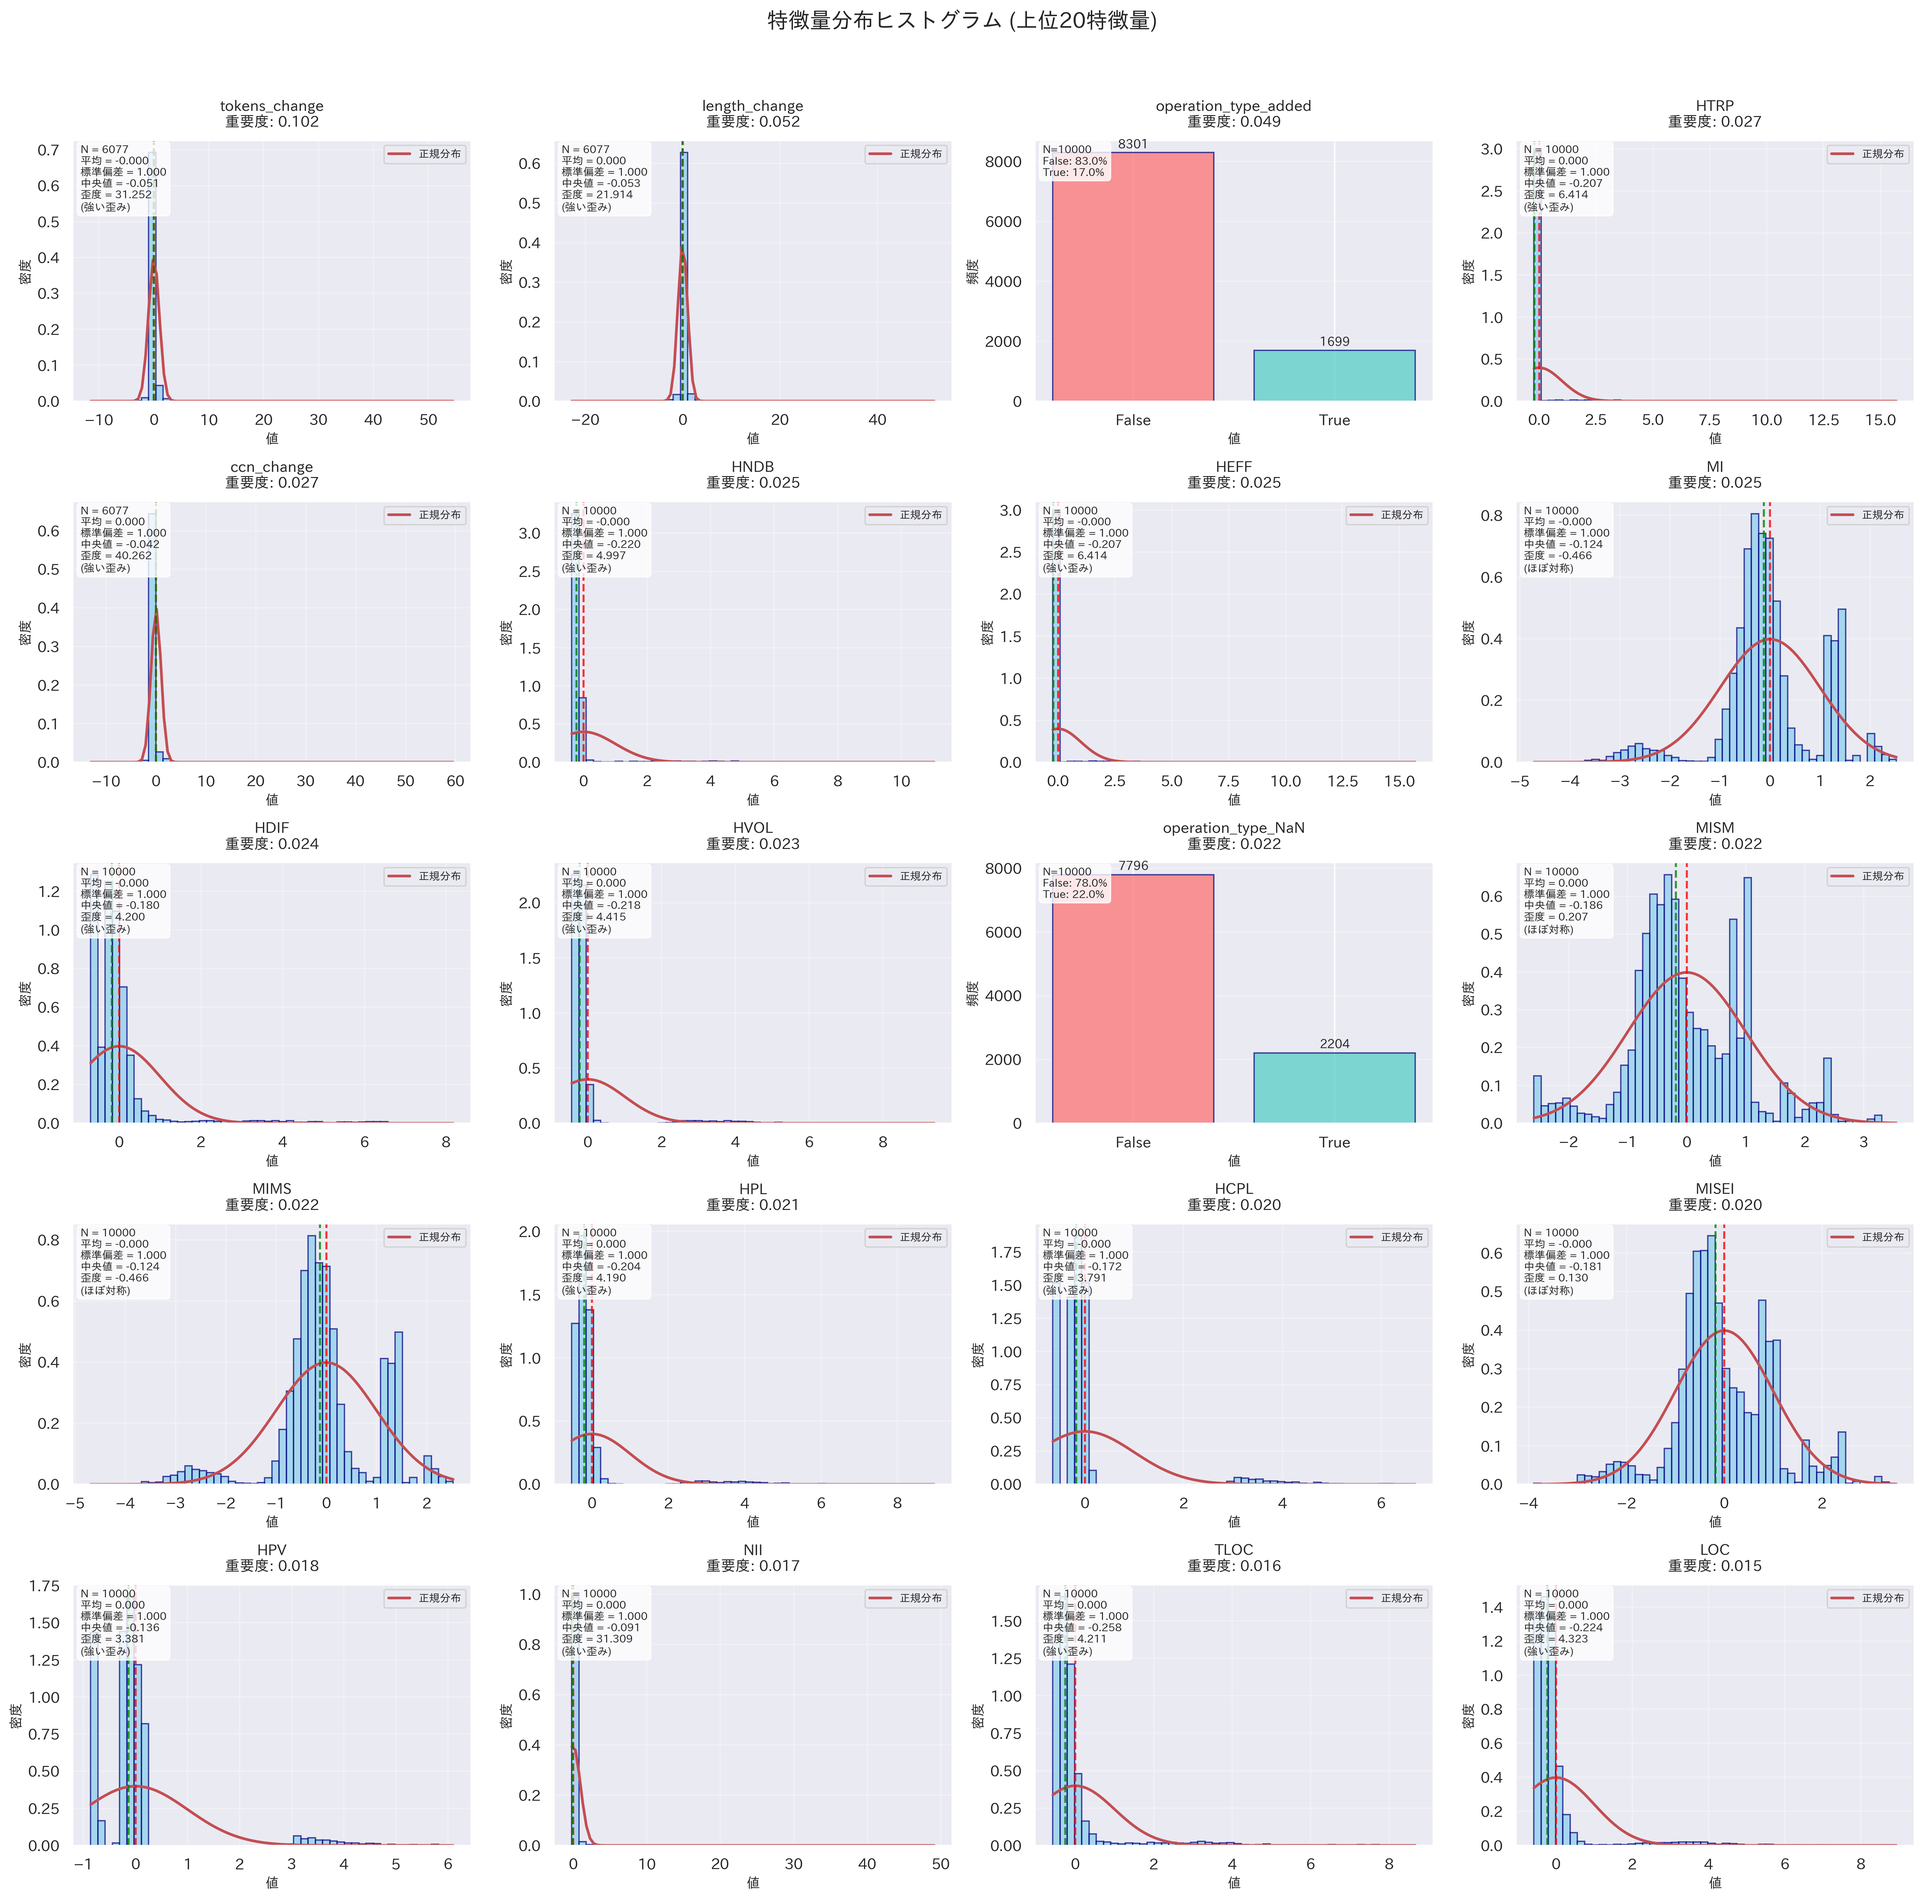
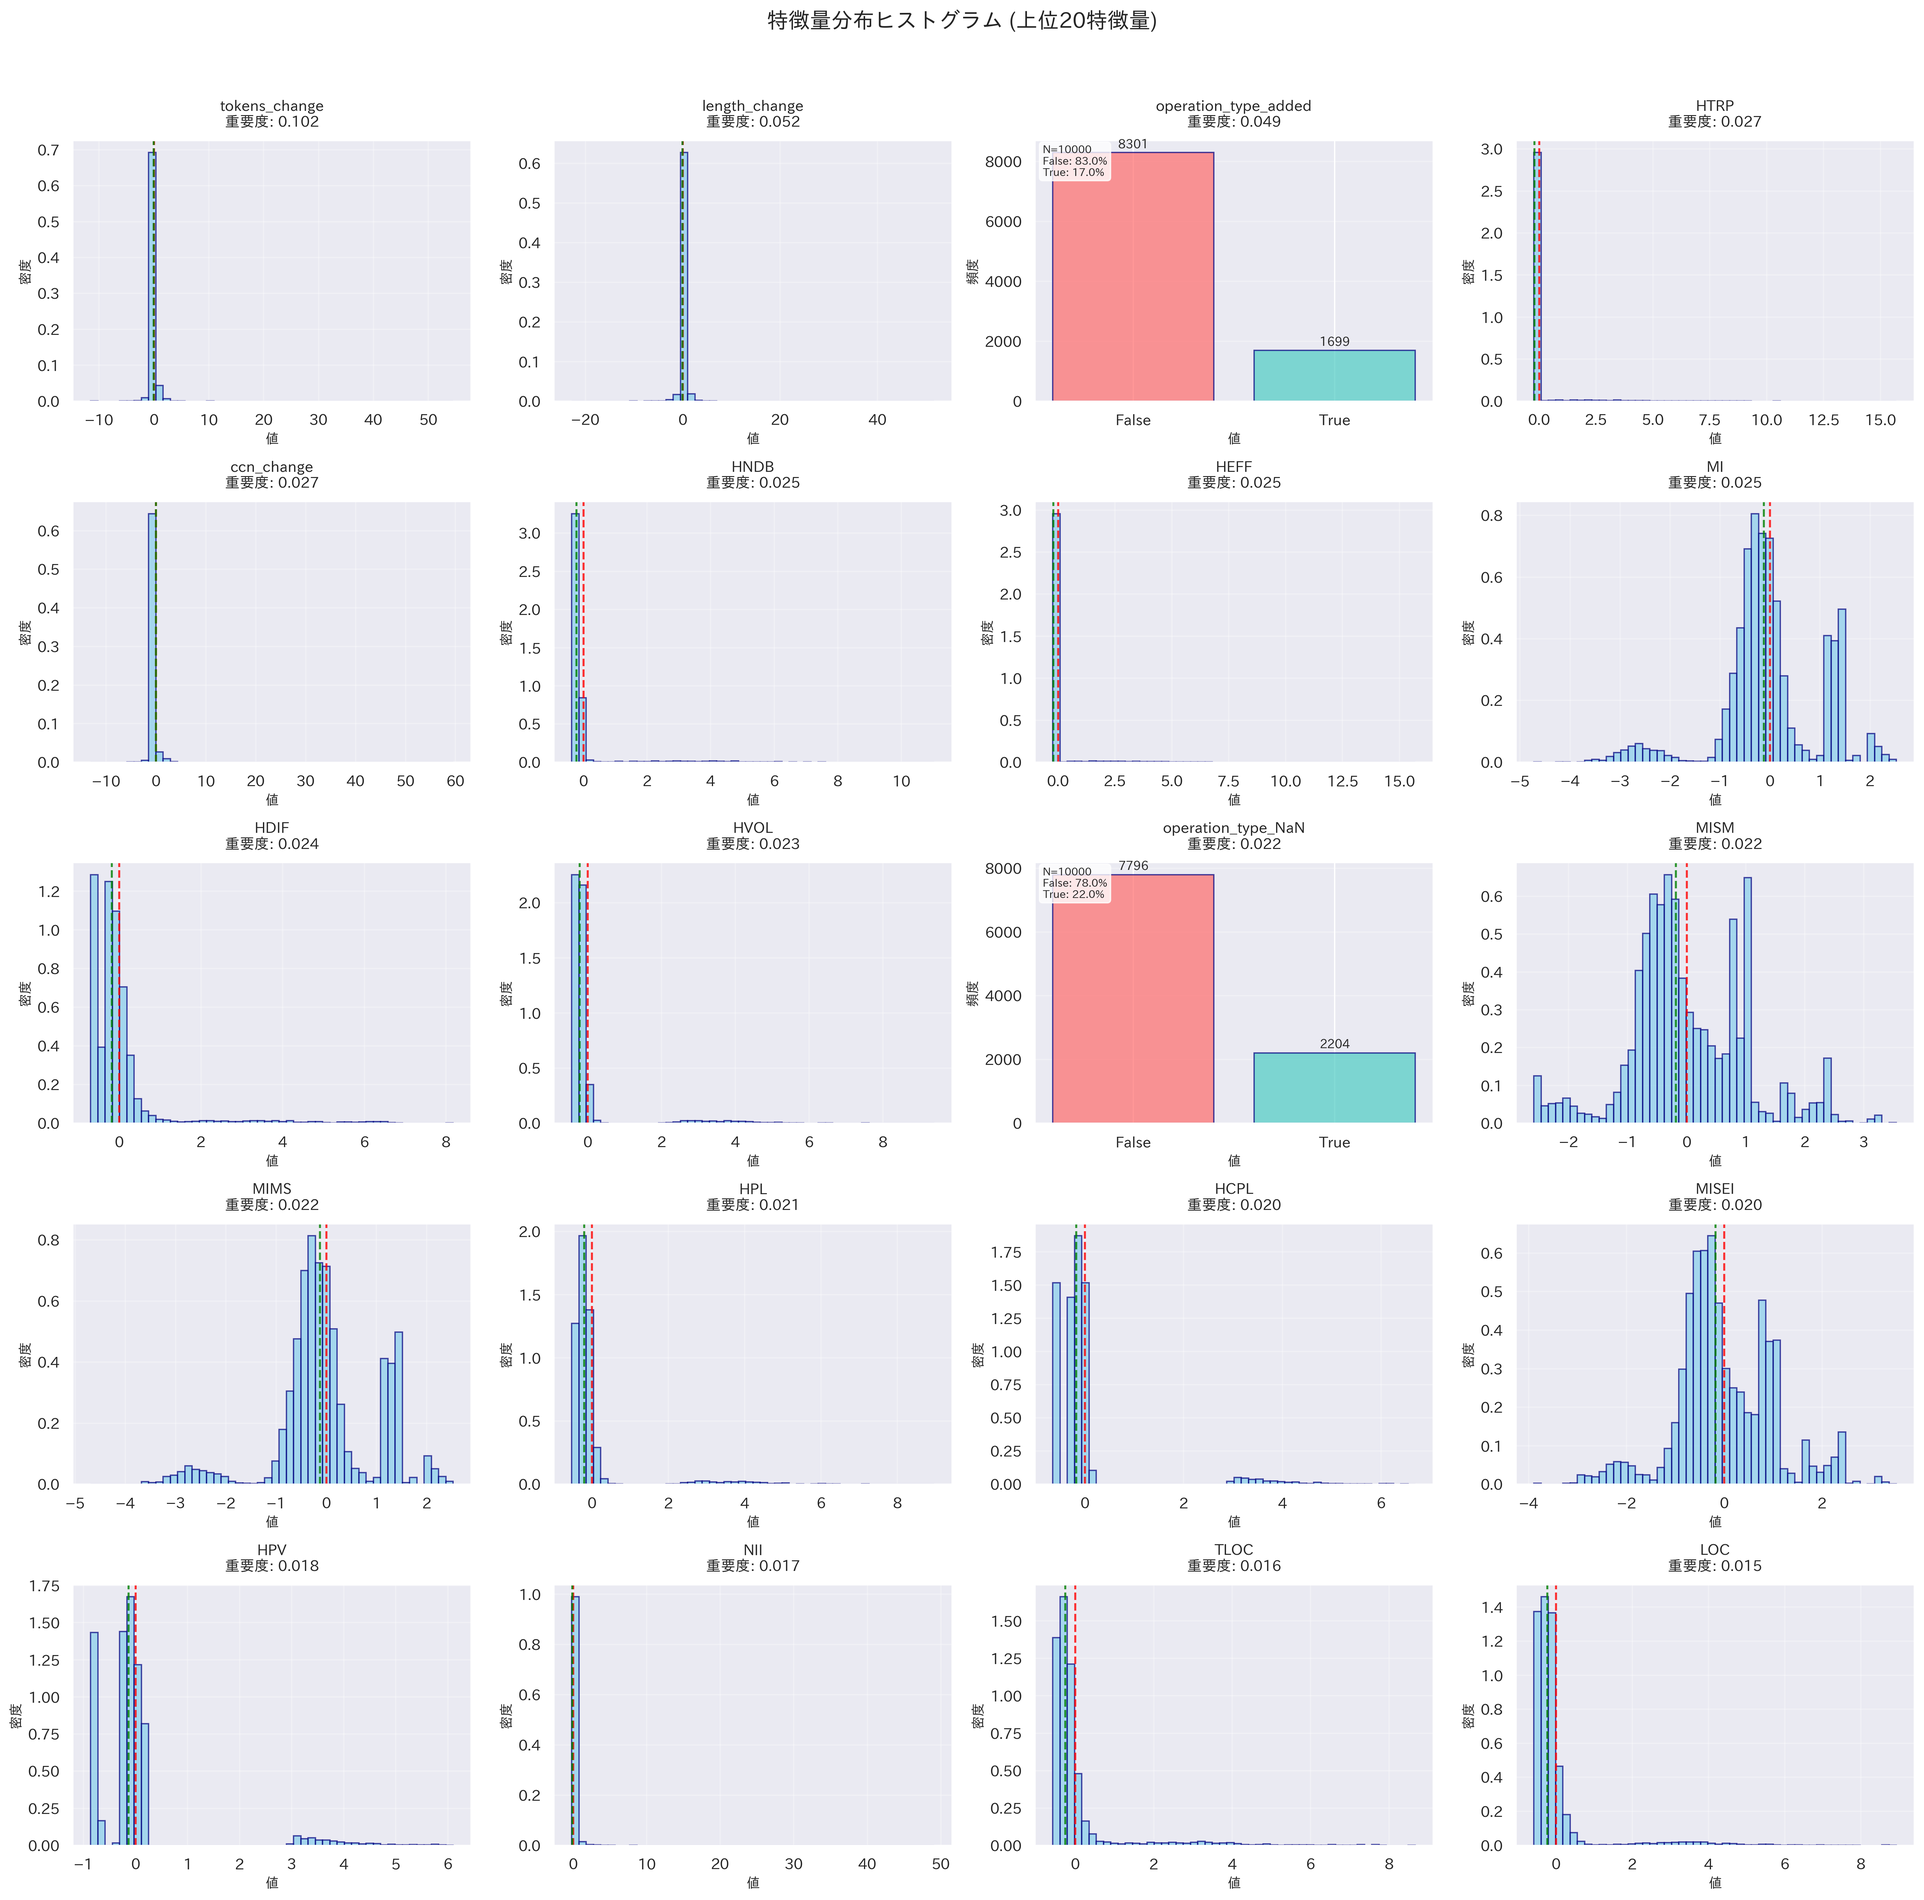
不要なコードを削除する

diff --git a/remove/elasticsearch/analyzer.py b/remove/elasticsearch/analyzer.py
@@ -389,9 +389,7 @@ class BugHunterAnalyzer:
 
         # 基本統計量
         mean_val = feature_data.mean()
-        std_val = feature_data.std()
         median_val = feature_data.median()
-        skewness = feature_data.skew()
 
         # ヒストグラム描画
         n_bins = min(50, max(10, len(feature_data) // 20))  # データ量に応じてbin数を調整
@@ -400,33 +398,11 @@ class BugHunterAnalyzer:
                                        alpha=0.7, color='skyblue', edgecolor='navy')
 
         # 平均値と中央値の縦線
-        ax.axvline(mean_val, color='red', linestyle='--', alpha=0.8, label=f'平均: {mean_val:.3f}')
-        ax.axvline(median_val, color='green', linestyle='--', alpha=0.8, label=f'中央値: {median_val:.3f}')
+        ax.axvline(mean_val, color='red', linestyle='--', alpha=0.8)
+        ax.axvline(median_val, color='green', linestyle='--', alpha=0.8)
 
         ax.set_xlabel('値')
         ax.set_ylabel('密度')
-
-        # 統計情報をテキストボックスで表示
-        stats_text = f'N = {len(feature_data)}\n'
-        stats_text += f'平均 = {mean_val:.3f}\n'
-        stats_text += f'標準偏差 = {std_val:.3f}\n'
-        stats_text += f'中央値 = {median_val:.3f}\n'
-        stats_text += f'歪度 = {skewness:.3f}'
-
-        # 歪度の解釈を追加
-        if abs(skewness) < 0.5:
-            skew_interpretation = '(ほぼ対称)'
-        elif abs(skewness) < 1.0:
-            skew_interpretation = '(やや歪み)'
-        else:
-            skew_interpretation = '(強い歪み)'
-
-        stats_text += f'\n{skew_interpretation}'
-
-        ax.text(0.02, 0.98, stats_text, transform=ax.transAxes,
-               fontsize=8, verticalalignment='top',
-               bbox=dict(boxstyle="round,pad=0.3", facecolor="white", alpha=0.8))
-
         ax.grid(True, alpha=0.3)
 
     def _plot_no_data_message(self, ax, feature_name: str):
@@ -618,8 +594,7 @@ class BugHunterAnalyzer:
 
         except Exception as e:
             print(f"PDP描画中にエラーが発生しました: {e}")
-            print("代替手法: 特徴量分布ヒストグラムを表示します")
-            self._plot_feature_distributions_alternative(top_features, save_path)
+            print("PDPの描画に失敗しました。")
 
     def _plot_operation_type_pdp(self, ax, feature_name: str, feature_idx: int, X_sample: pd.DataFrame, model):
         """operation_type特徴量専用のPDP描画"""
@@ -755,49 +730,6 @@ class BugHunterAnalyzer:
         ax.set_yticks([])
         ax.set_ylabel('Partial Dependence', fontsize=9)
         ax.set_facecolor('#f8f8f8')
-
-    def _plot_feature_distributions_alternative(self, top_features: List[str], save_path: str):
-        """PDPが失敗した場合の代替：特徴量重要度の別形式表示"""
-        print("代替表示: 特徴量重要度のレーダーチャートを作成します")
-
-        try:
-            all_features = self.model_data['all_feature_names']
-            feature_scores = self.model_data['feature_importance_scores']
-
-            # 重要度データを取得
-            importances = []
-            for feature in top_features[:10]:  # 上位10個に限定
-                idx = all_features.index(feature)
-                importances.append(feature_scores[idx])
-
-            # レーダーチャートの準備
-            features_short = [self._shorten_feature_name(f, 15) for f in top_features[:10]]
-
-            # 角度の計算
-            angles = np.linspace(0, 2 * np.pi, len(features_short), endpoint=False).tolist()
-            importances += importances[:1]  # 閉じるために最初の値を最後に追加
-            angles += angles[:1]
-
-            # プロット作成
-            fig, ax = plt.subplots(figsize=(10, 10), subplot_kw=dict(projection='polar'))
-
-            # レーダーチャート描画
-            ax.plot(angles, importances, 'o-', linewidth=2, color='#4ECDC4')
-            ax.fill(angles, importances, alpha=0.25, color='#4ECDC4')
-
-            # ラベル設定
-            ax.set_xticks(angles[:-1])
-            ax.set_xticklabels(features_short)
-            ax.set_ylim(0, max(importances) * 1.1)
-            ax.set_title('特徴量重要度 (上位10特徴量)', size=16, pad=20)
-
-            plt.tight_layout()
-            plt.savefig(save_path, dpi=300, bbox_inches='tight')
-            print(f"代替チャートを '{save_path}' に保存しました")
-            plt.show()
-
-        except Exception as e:
-            print(f"代替表示でもエラーが発生しました: {e}")
 
     def _get_feature_type(self, feature_name: str) -> str:
         """特徴量の種類を判定"""
